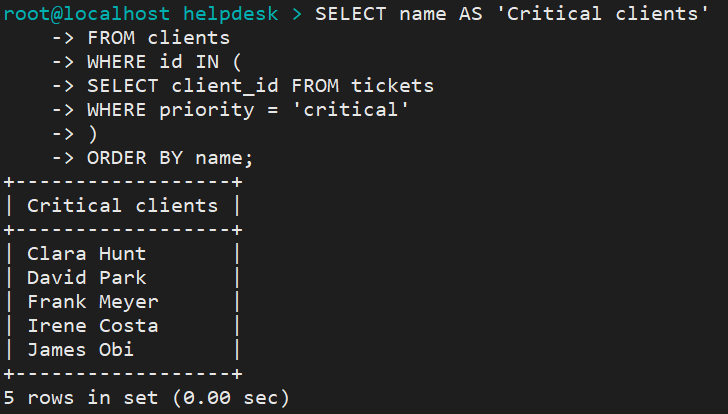
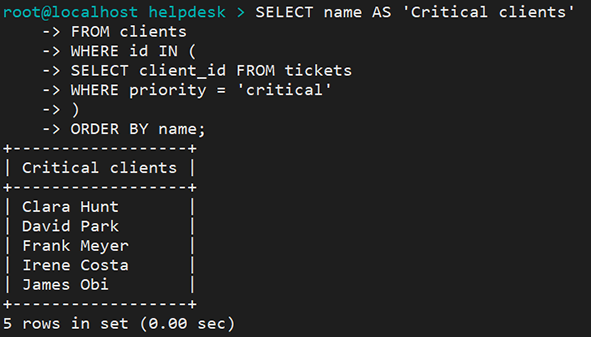
Add MySQL backup script: mysqldump with 7-day rotation and restore test

diff --git a/mysql/README.md b/mysql/README.md
@@ -55,19 +55,24 @@ USE helpdesk;
 SHOW TABLES;
 ```
 
-## Sample Output: Users and Privileges
+## MySQL Configuration
 
-### helpdesk_readonly: grants and access denied
-Shows granted privileges and failed INSERT attempt — read-only restrictions enforced at table level.
-![readonly grants and access denied](screenshots/grants_readonly_access_denied.png)
+Main config: `/etc/my.cnf.d/mysql-server.cnf`
 
-### SHOW GRANTS: helpdesk_admin
-![admin grants](screenshots/grants_admin.png)
+| Parameter | Value | Notes |
+|-----------|-------|-------|
+| `innodb_buffer_pool_size` | `3G` | Set to ~75% of available RAM for InnoDB performance |
+| `secure_file_priv` | `/var/lib/mysql-files` | Restricts file import/export to a safe directory |
+| `slow_query_log` | `OFF` | Disabled by default; enable in production to detect queries exceeding `long_query_time` |
 
-### SHOW GRANTS: backup_user
-![admin grants](screenshots/grants_backup_user.png)
+## Security Notes
 
-## Backup
+After MySQL installation, `sudo mysql_secure_installation` was executed:
+- Anonymous users removed
+- Remote root login disabled
+- Test database removed
+
+## Backup and Restore
 
 ````bash
 # Run manually
@@ -76,6 +81,18 @@ bash backup.sh
 # Or schedule via cron (daily at 2:00 AM)
 0 2 * * * /path/to/backup.sh
 ````
+
+### Running the backup script
+
+Shows manual run, resulting `.sql.gz` files with timestamps, and log entries confirming success and rotation.
+
+![Backup script run](screenshots/mysqldump_backup_run.png)
+
+### Restore test
+
+Drops the `tickets` table, restores from dump, verifies all 4 tables and 20 rows are back.
+
+![Backup restore test](screenshots/mysqldump_restore_test.png)
 
 ## Files
 
@@ -87,52 +104,59 @@ bash backup.sh
 | `demo_queries.sql` | JOIN, GROUP BY, subquery examples with comments |
 | `backup.sh` | Automated backup script with 7-day rotation |
 
-## Security Notes
-
-After MySQL installation, `sudo mysql_secure_installation` was executed:
-- Anonymous users removed
-- Remote root login disabled
-- Test database removed
-
 ## Sample Output
 
 All examples run in a local VM lab environment.
 
-### All tickets with client, category, and agent
+### Sample Output: Users and Privileges
+
+#### helpdesk_readonly: grants and access denied
+Shows granted privileges and failed INSERT attempt — read-only restrictions enforced at table level.
+![readonly grants and access denied](screenshots/grants_readonly_access_denied.png)
+
+#### helpdesk_admin: grants
+![admin grants](screenshots/grants_admin.png)
+
+#### backup_user: grants
+![backup_user grants](screenshots/grants_backup_user.png)
+
+### Sample Output: Demo Queries
+
+#### All tickets with client, category, and agent
 
 Demonstrates INNER JOIN on clients and categories, LEFT JOIN on agents.
 Tickets with no assigned agent show NULL in the Agent column.
 
 ![All tickets query](screenshots/all_tickets_query.png)
 
-### Unassigned tickets
+#### Unassigned tickets
 
 Tickets with no agent allocated yet.
 Demonstrates LEFT JOIN on agents table and WHERE agent_id IS NULL filter.
 
 ![Unassigned tickets](screenshots/unassigned_tickets_query.png)
 
-### Ticket count by category
+#### Ticket count by category
 
 Ticket volume per category, busiest first.
 Demonstrates GROUP BY with COUNT. Categories with equal count are sorted alphabetically.
 
 ![Tickets by category](screenshots/tickets_by_category_query.png)
 
-### Average resolution time by priority
+#### Average resolution time by priority
 
 Shows mean resolution time per priority level. Open tickets are excluded.
 Demonstrates AVG with TIMESTAMPDIFF and GROUP BY.
 
 ![Avg resolution time](screenshots/avg_resolution_time_query.png)
 
-### Clients with at least one critical ticket
+#### Clients with at least one critical ticket
 
 Demonstrates a subquery with IN operator.
 
 ![Critical tickets clients](screenshots/critical_clients_query.png)
 
-### Open and in-progress tickets by priority
+#### Open and in-progress tickets by priority
 
 Active tickets grouped by status and sorted by priority.
 Demonstrates WHERE IN with ORDER BY on multiple columns.
